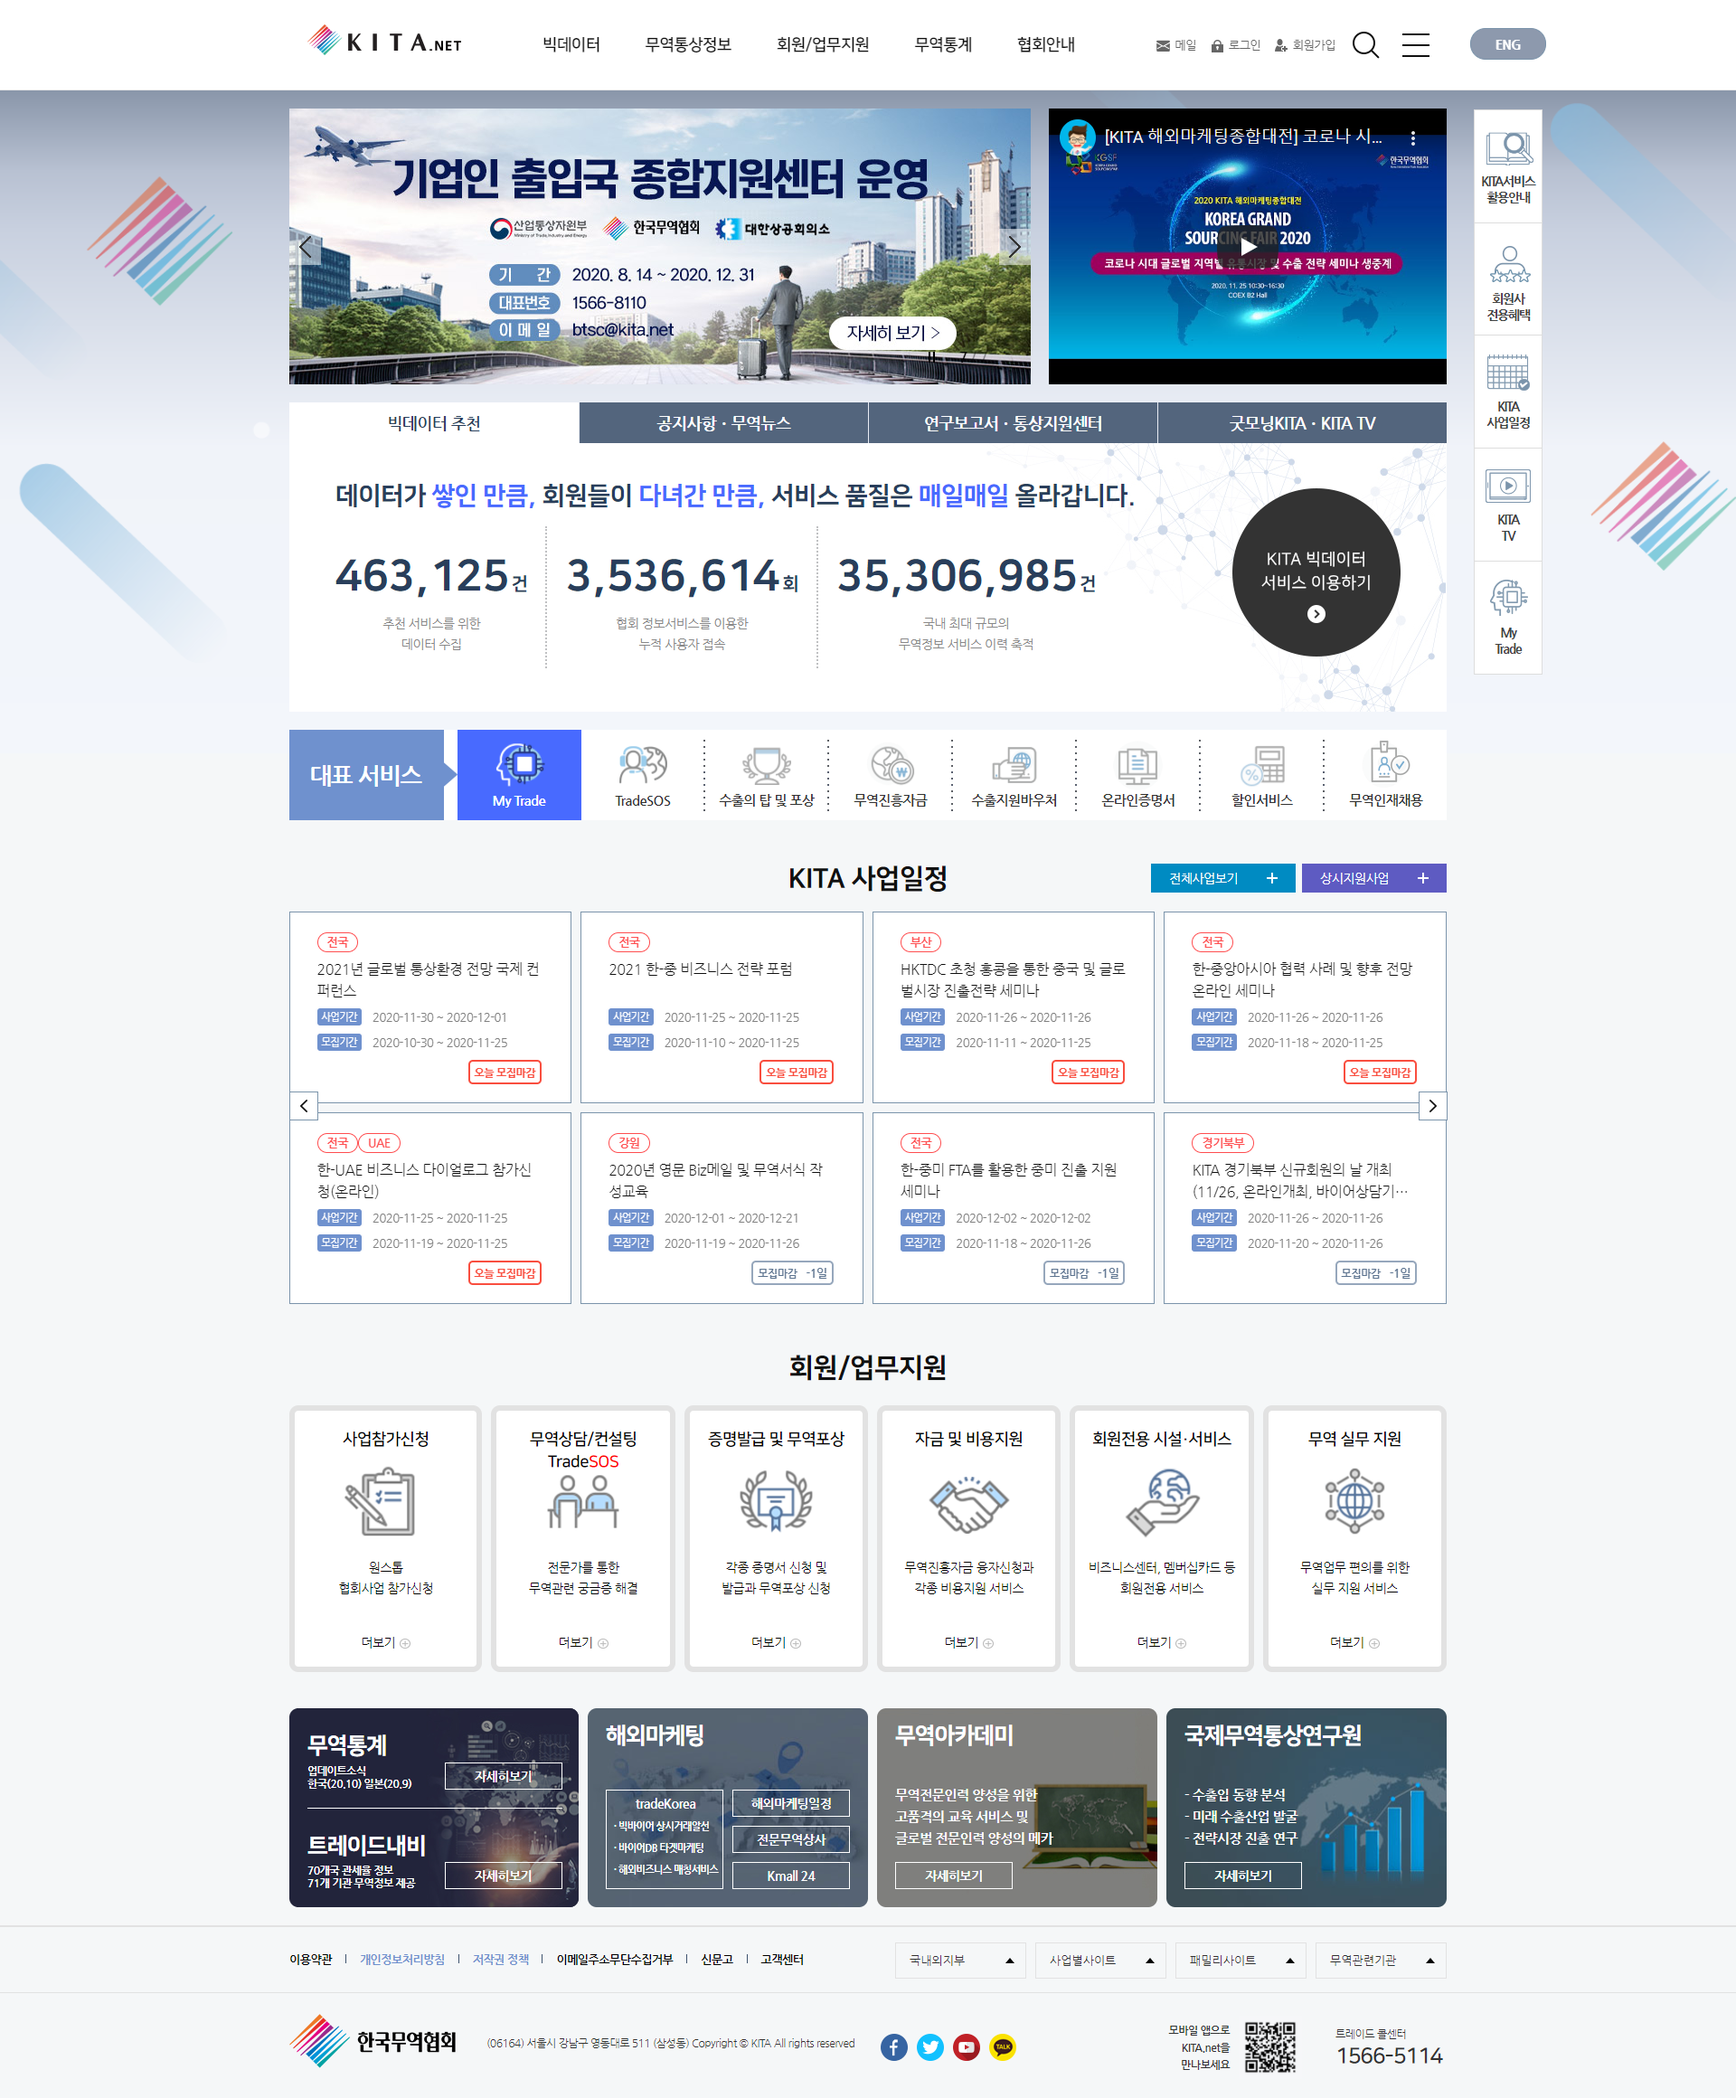
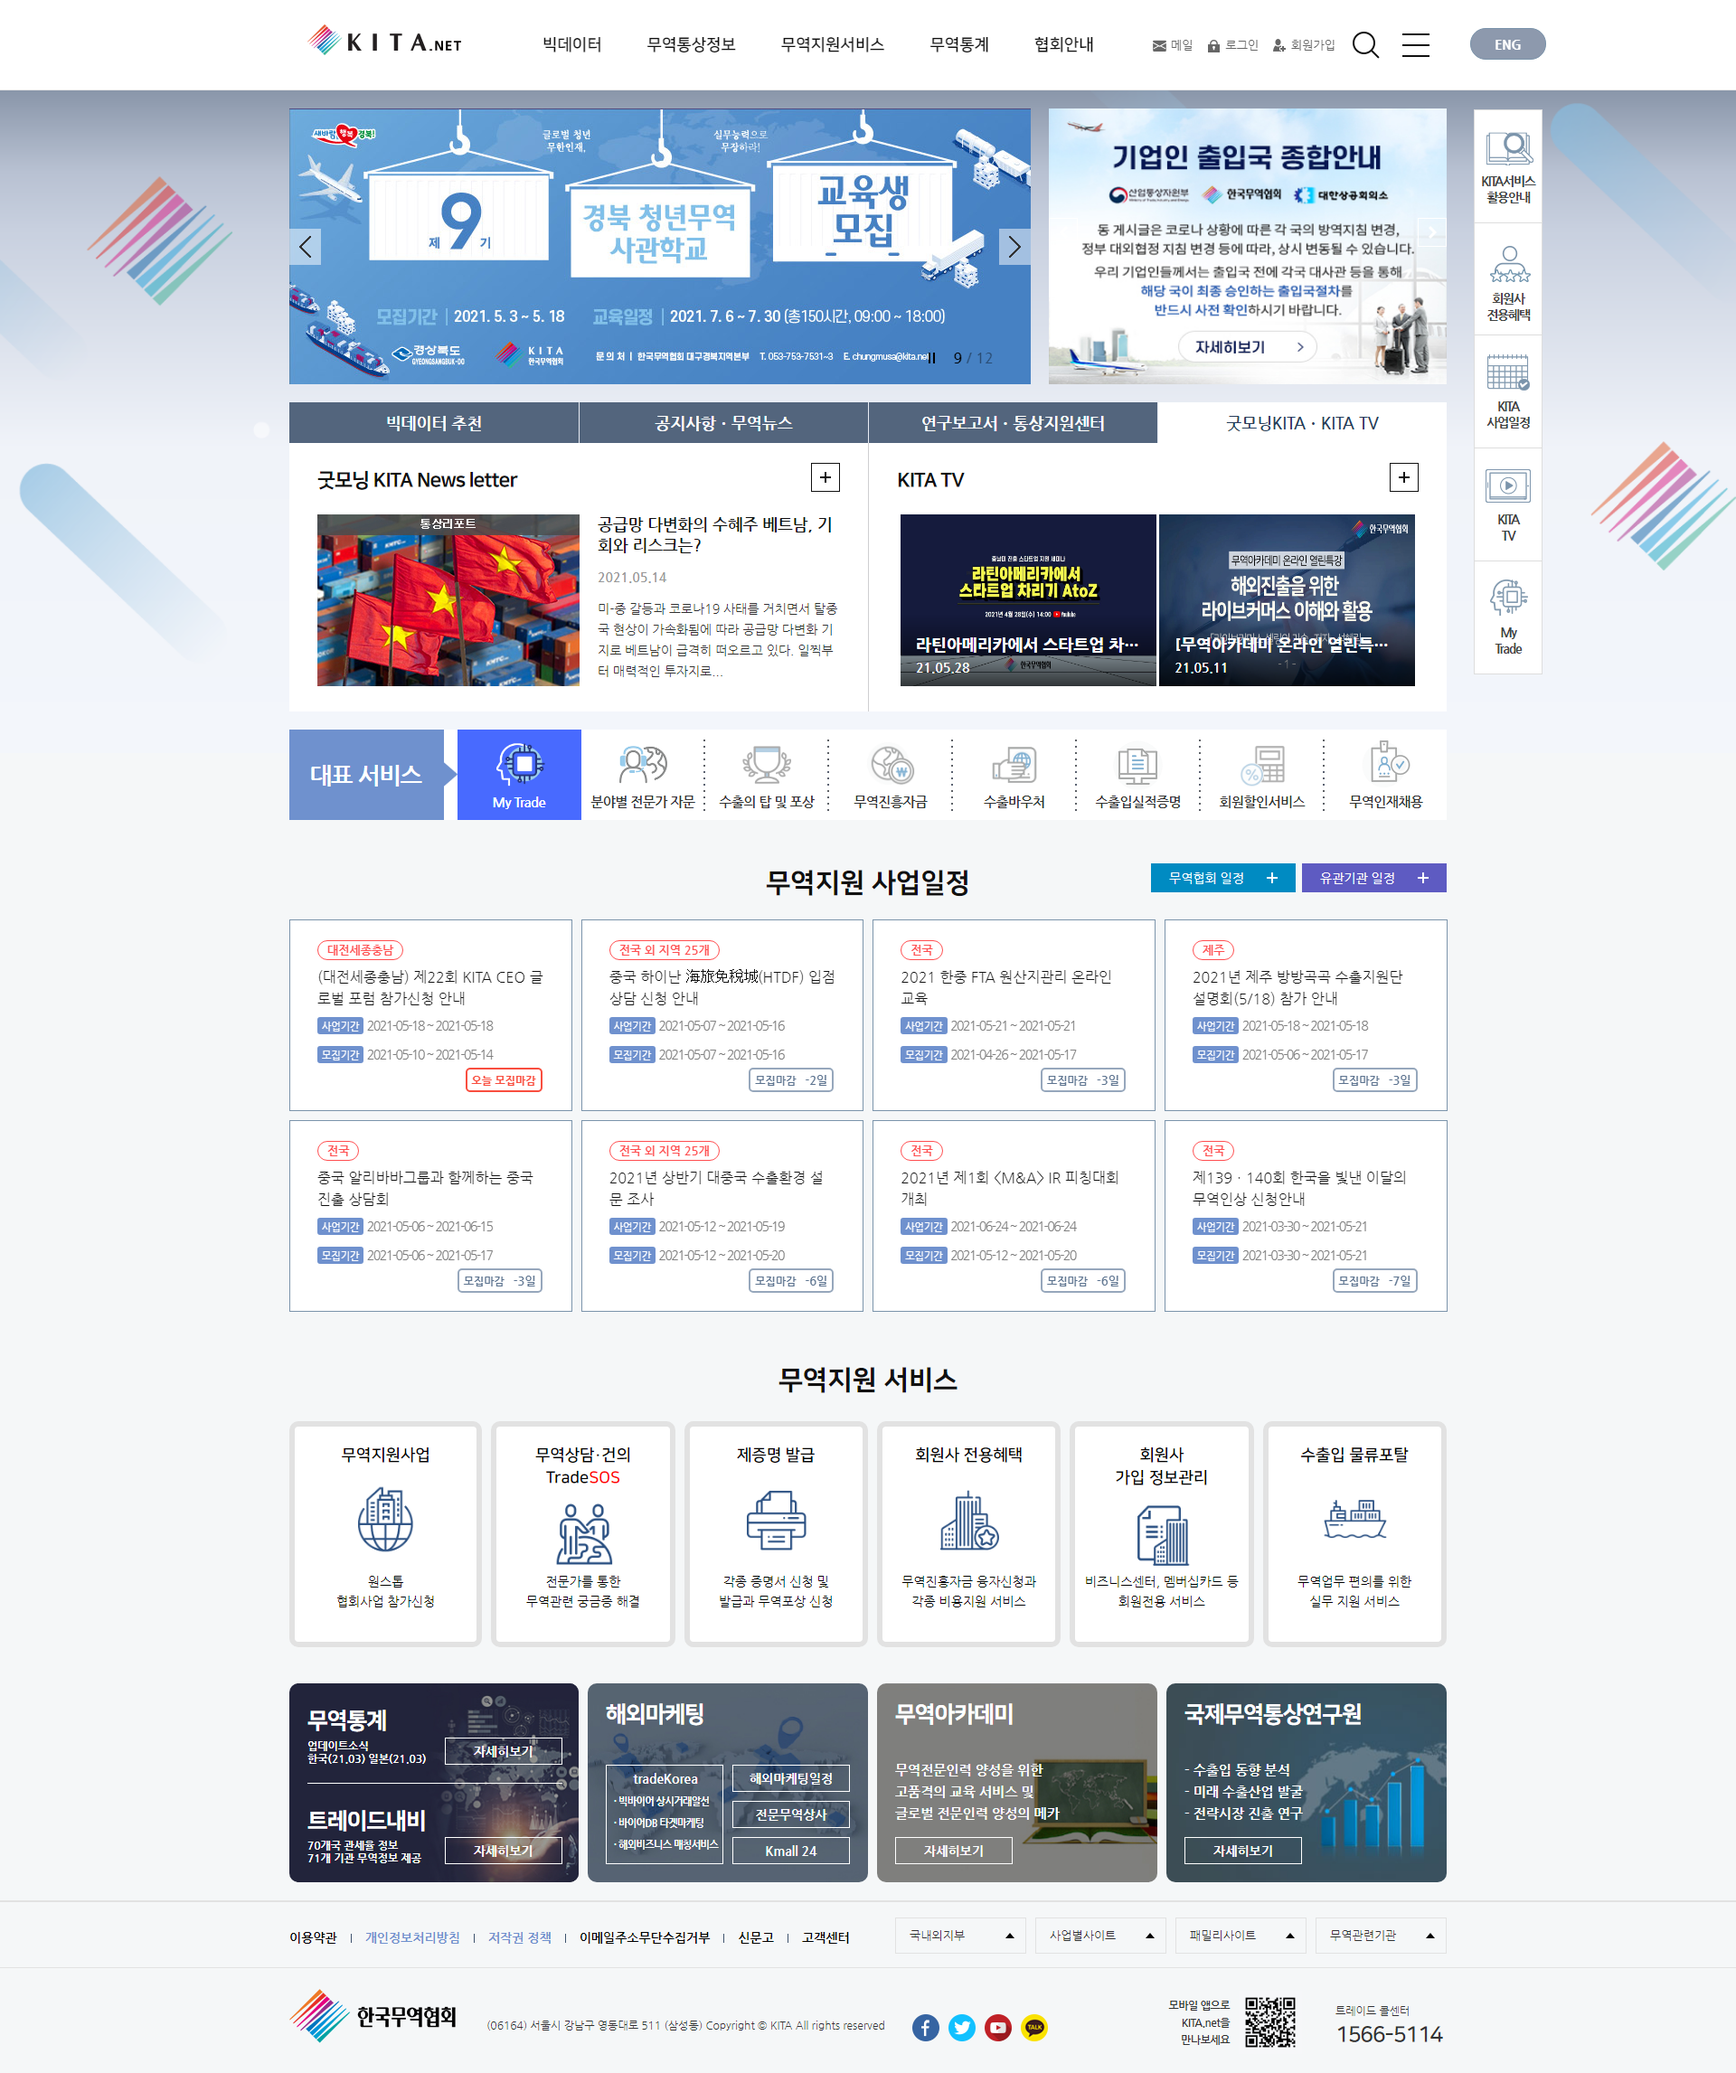
ss

diff --git a/008.GridSystem/1280pxGS.html b/008.GridSystem/1280pxGS.html
@@ -42,7 +42,7 @@
                 z-index: -1;/* 일반요소보다 아래 */
                 /* z-index: 99999999; */
                 /* 필요할때 가장위!!! */
-                display: none;
+                /* display: none; */
             }
 
             /* 공통 클래스 */
@@ -86,6 +86,13 @@
             /* 숨기기 클래스 */
             .bld{
                 display: none;
+            }
+
+            /* 공통 소제목 */
+            .tit2{
+                text-align: center;
+                font-size: 42px;
+                line-height: 250px;
             }
 
 
@@ -193,7 +200,7 @@
         <div id="top">
             <header class="ibx top">
                 <div class="pbx col-2">
-                    <h1>로고</h1>
+                    <h1 class="tit1">로고</h1>
                 </div>
                 <div class="pbx col-10">
 
@@ -225,7 +232,7 @@
         <!-- 5.컨텐츠영역4 -->
         <div id="cont4">
             <section class="ibx cont4">
-                <h2>KITA 사업일정</h2>
+                <h2 class="tit2">무역지원 사업일정</h2>
                 <div class="pbx col-3"></div>
                 <div class="pbx col-3"></div>
                 <div class="pbx col-3"></div>
@@ -239,7 +246,7 @@
         <!-- 6.컨텐츠영역5 -->
         <div id="cont5">
             <section class="ibx cont5">
-                <h2>회원/업무지원</h2>
+                <h2 class="tit2">무역지원 서비스</h2>
                 <div class="pbx col-2"></div>
                 <div class="pbx col-2"></div>
                 <div class="pbx col-2"></div>
